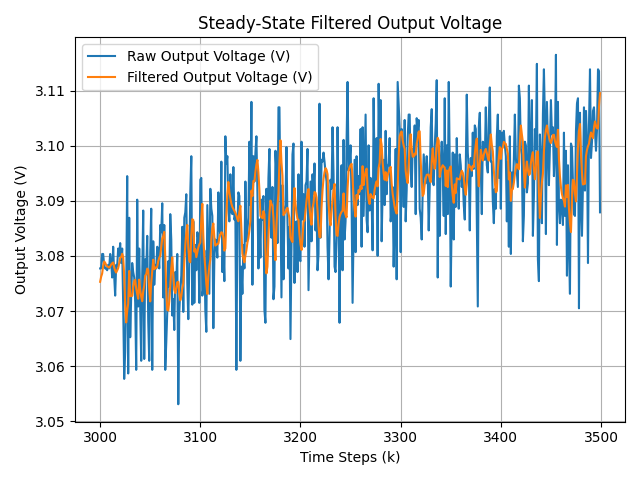
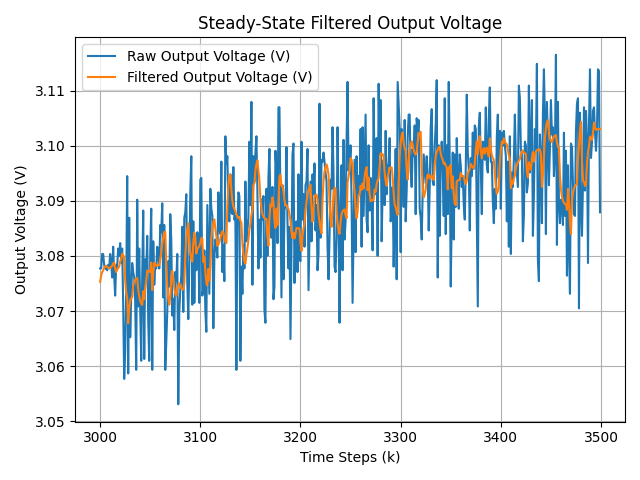
refactor: update compute_parameters to return only necessary values and adjust filtering logic feat: enhance create_filter and test_filter functions to support dynamic median filtering

Changed region(s): [[0.1562, 0.2188, 0.9375, 0.6875]]

diff --git a/torneira/filtro_digital/test_filter.py b/torneira/filtro_digital/test_filter.py
@@ -4,65 +4,45 @@ from collections.abc import Callable
 import numpy as np
 
 
-def create_filter(alpha: float, initial_state: float = 0.0) -> Callable[[float], float]:
-    """
-    Constructs a stateful closure for sample-by-sample hybrid filtering.
-
-    Args:
-        alpha: The IIR filter feedback coefficient (pole).
-        initial_state: The steady-state value prior to t=0.
-
-    Returns:
-        A function that accepts a single float sample and returns the filtered output.
-    """
+def create_filter(
+    alpha: float, median_N: int = 3, initial_state: float = 0.0
+) -> Callable[[float], float]:
     if not (0.0 <= alpha < 1.0):
         raise ValueError("Pole alpha must strictly fall within the interval [0, 1).")
+    if median_N < 1 or median_N % 2 == 0:
+        raise ValueError("median_N must be a strictly positive odd integer.")
 
-    # State initialization
-    x_buffer = collections.deque([initial_state] * 3, maxlen=3)
-
-    # Dictionary used to permit mutation within the closure scope
-    iir_state = {"y_prev": initial_state}
+    x_buffer = collections.deque([initial_state] * median_N, maxlen=median_N)
     feedforward_coeff = 1.0 - alpha
+    y_prev = initial_state  # Python 3 scalar state
 
-    def filter(x: float) -> float:
+    def filter_func(x: float) -> float:
+        nonlocal y_prev  # Declare nonlocal scope
+
         x_buffer.append(x)
 
-        # Median operation (N=3)
-        x_med = sorted(x_buffer)[1]
+        # Dynamic median operation
+        x_med = sorted(x_buffer)[median_N // 2]
 
         # IIR difference equation
-        y = alpha * iir_state["y_prev"] + feedforward_coeff * x_med
-        iir_state["y_prev"] = y
+        y = alpha * y_prev + feedforward_coeff * x_med
+        y_prev = y
 
         return y
 
-    return filter
+    return filter_func
 
 
-def test_filter(alpha: float, y: np.ndarray, initial_state: float = 0.0) -> np.ndarray:
-    """
-    Instantiates the online hybrid filter and applies it sequentially to a data vector.
-
-    Args:
-        alpha: Discrete IIR filter coefficient [0, 1).
-        y: 1D array of experimental input samples.
-        initial_state: Initial condition for the filter states.
-
-    Returns:
-        1D array of filtered samples.
-    """
+def test_filter(
+    alpha: float, median_N: int, y: np.ndarray, initial_state: float = 0.0
+) -> np.ndarray:
     if not isinstance(y, np.ndarray) or y.ndim != 1:
         raise ValueError("Input data must be a 1-dimensional NumPy array.")
 
-    # Instantiate the stateful closure
-    filter = create_filter(alpha, initial_state)
-
-    # Preallocate output array to match input dimensions
+    filter_closure = create_filter(alpha, median_N, initial_state)
     y_filtered = np.empty_like(y, dtype=float)
 
-    # Apply the filter sample-by-sample to simulate online operation
     for i in range(len(y)):
-        y_filtered[i] = filter(y[i])
+        y_filtered[i] = filter_closure(y[i])
 
     return y_filtered

diff --git a/torneira/filtro_digital/design.py b/torneira/filtro_digital/design.py
@@ -3,7 +3,7 @@ import numpy as np
 
 def compute_parameters(
     L: float, Ts: float, delay_fraction: float = 0.1
-) -> tuple[int, float, float]:
+) -> tuple[float, float]:
     """
     Computes the parameters for the hybrid real-time digital filter.
 
@@ -14,7 +14,6 @@ def compute_parameters(
                         Defaults to 0.1 (10%) to preserve closed-loop phase margin.
 
     Returns:
-        median_N: Window size for the median filter.
         tau_f: Continuous time constant of the low-pass filter (seconds).
         alpha: Discrete IIR filter coefficient for the previous output.
     """
@@ -25,13 +24,10 @@ def compute_parameters(
     if delay_fraction <= 0 or delay_fraction >= 1:
         raise ValueError("Delay fraction must be within the interval (0, 1).")
 
-    # 1. Median Filter Parameter
-    median_N = 7
-
-    # 2. IIR Low-Pass Filter Parameters
+    # IIR Low-Pass Filter Parameters
     tau_f = L * delay_fraction
 
-    # 3. Exact Z-plane pole mapping
+    # Exact Z-plane pole mapping
     alpha = float(np.exp(-Ts / tau_f))
 
-    return median_N, tau_f, alpha
+    return tau_f, alpha

diff --git a/torneira/filtro_digital/filtro.py b/torneira/filtro_digital/filtro.py
@@ -6,11 +6,12 @@ from data_io import load_experiment_data, plot_filtered_data, plot_filtered_data
 def main():
     L = 1.043  # seconds
     Ts = 0.1  # seconds
+    median_N = 5  # Odd integer for median filter window size
     y_range = (2.2, 3.2)  # temperature sensor voltage
-    delay_fraction = 0.2  # 20% of the plant delay
+    delay_fraction = 0.15  # 15% of the plant delay
 
     # Compute filter parameters
-    median_N, tau_f, alpha = compute_parameters(L, Ts, delay_fraction)
+    tau_f, alpha = compute_parameters(L, Ts, delay_fraction)
     print(
         f"Computed Parameters:\nMedian Filter Window Size: {median_N}\nLow-Pass Filter Time Constant (tau_f): {tau_f:.4f} seconds\nIIR Filter Coefficient (alpha): {alpha:.4f}"
     )
@@ -25,7 +26,7 @@ def main():
 
     # Apply the hybrid filter to the experimental data
     y_filtered = test_filter(
-        alpha, y, initial_state=y[0]
+        alpha, median_N, y, initial_state=y[0]
     )  # Use the first sample as the initial state for better transient response
 
     # Plot and save the results
